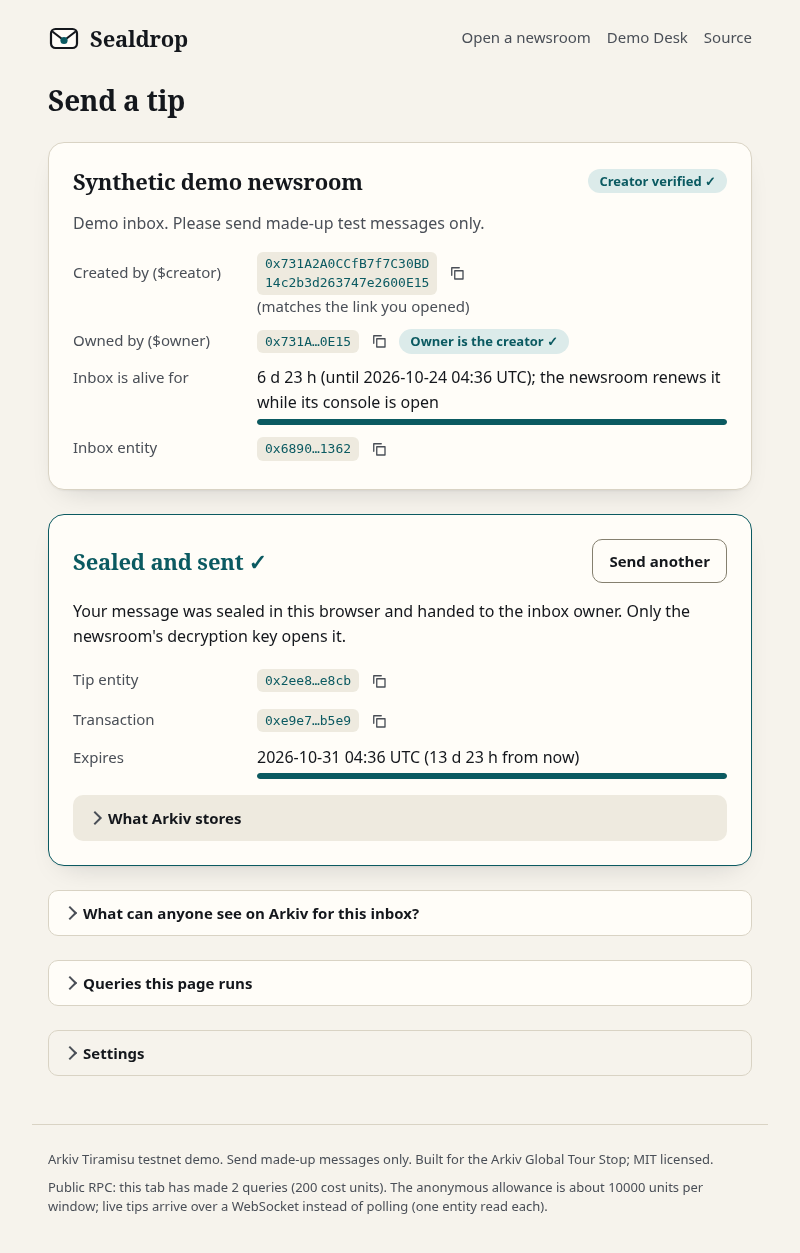
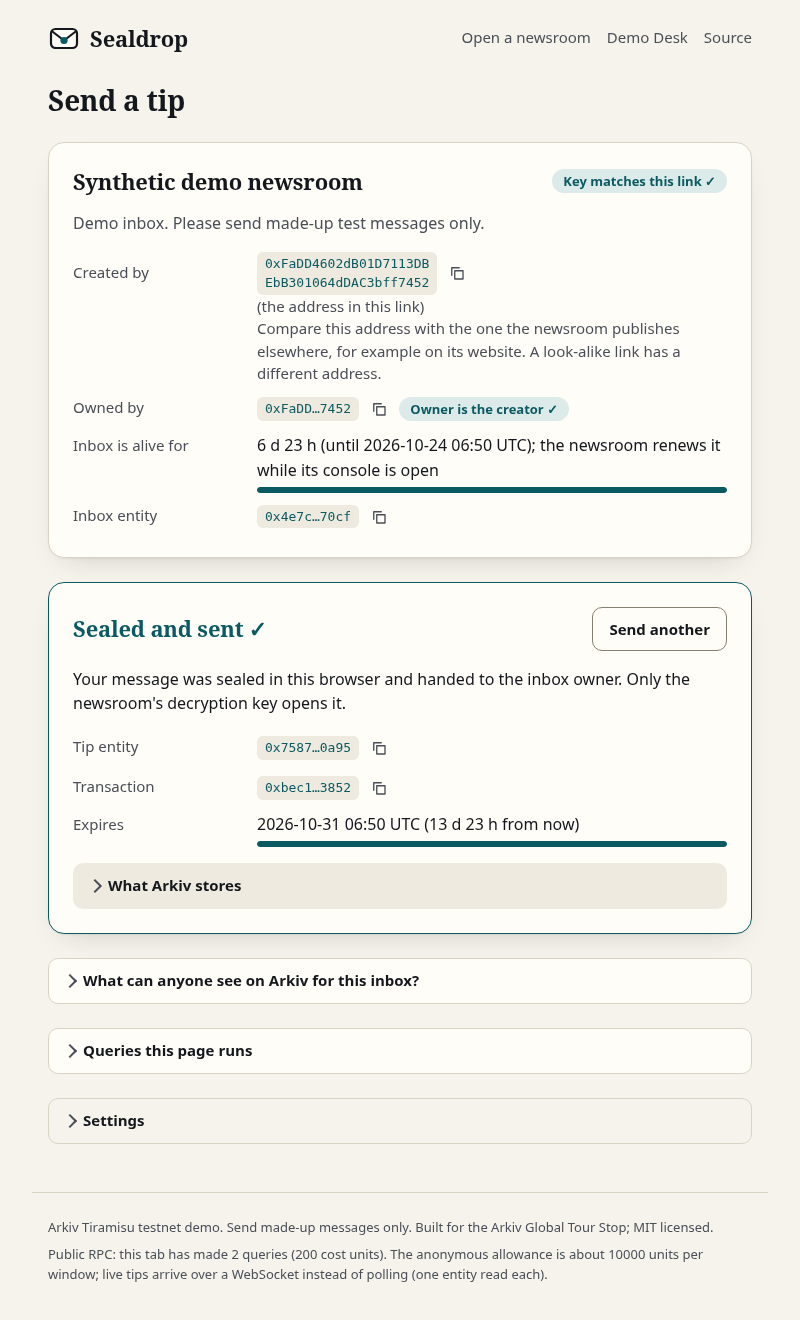
Evidence after fix stage 1: live smoke, C harness, refreshed numbers
- npm run smoke on the live testnet: 24 PASS, judge path 19.3 s.
- QA C harness rerun on this code: every class PASS (flood: 50 live tips
  shown in 6.9 s with 2000 rows).
- README and friction.md timings now match evidence/smoke.txt (QA B2-8).
- The subpath smoke was blocked by the spent public RPC budget (recorded).

diff --git a/arkiv/friction.md b/arkiv/friction.md
@@ -349,5 +349,5 @@ These were verified with the same rigour as the problems above, so they count as
 | Documented query limits | `!=` and `exists(...)` fail with a clear JSON-RPC error (-32002, "write NOT (attr = value)" / "the index has no per-attribute presence set in this version"), exactly as the Querying Data pages say the network behaves. |
 | Explorer deep links | `https://tiramisu.explorer.arkiv.network/tx/<hash>`, `/address/<addr>`, `https://data.arkiv.network/entity/<key>` and `/owner/<addr>` all render the object from the hash alone. |
 | WebSocket resilience | Tested on 2026-10-16 by dropping the socket of a newsroom console in headless Chromium 154, through a local proxy in front of the public node: the socket killed and new handshakes refused for 15 s; CDP `offline` for 15 s; the socket left open but silent. With viem 2.57.7's default `webSocket()` reconnect (5 attempts, 2 s apart) the 15 s outage outlasted the retries: the subscription ended with "The socket has been closed" (the page said "Live updates stopped"), and tips sent during and after the outage had not appeared 30 s later; the page does not poll, so only a reload or Refresh would show them. Events are not replayed after a reconnect, so a catch-up read is needed whatever the transport does; `watchEntityEvents` only has `onError`. Sealdrop therefore supervises the socket itself (reconnect off, backoff, a heartbeat, one `$createdAt` query after each reconnect) and passes all three scenarios ([evidence/qa.md](../evidence/qa.md)). Chromium's CDP `offline` did not close an already open socket, so that scenario is not a real drop. I did not test the old behavior for an outage shorter than viem's retry window (viem may reconnect by itself, but nothing replays the events of the gap), and the drops were injected by a local proxy, not a real Wi-Fi change, sleep or node restart. |
-| WebSocket push in a browser | `watchEntityEvents` over a WebSocket works from a page in headless Chromium 154: a tip sent from one browser context showed up in the newsroom tab 3.1 s after the Send click (the sender's own page confirmed after 5.6 s), and the app marks it as arrived by push ([`evidence/smoke.txt`](../evidence/smoke.txt)). Browser, Node and the standalone reader all talk to the same public node without a proxy. |
+| WebSocket push in a browser | `watchEntityEvents` over a WebSocket works from a page in headless Chromium 154: a tip sent from one browser context showed up in the newsroom tab 2.1 s after the Send click (the sender's own page confirmed after 5.6 s), and the app marks it as arrived by push ([`evidence/smoke.txt`](../evidence/smoke.txt)). Browser, Node and the standalone reader all talk to the same public node without a proxy. |
 | Injected wallet | The SDK's wallet client works with an EIP-1193 provider on `window.ethereum`. This was tested with a scripted stand-in (`scripts/wallet-shim.ts`, signs with a Node-held key), not a real browser extension: the tip was created with the provider's address as `$creator`. |

diff --git a/README.md b/README.md
@@ -51,8 +51,8 @@ of this repository or the build. Open the entity link on the Data Explorer to se
 three attributes.
 
 Measured on 2026-10-17 by a headless Chromium run against the built site and the live testnet ([evidence/smoke.txt](evidence/smoke.txt)):
-creating the newsroom takes under a second (no network), creating the inbox 15.5 s (two transactions and the first look-up),
-and the decrypted tip appeared in the newsroom tab 2.6 s after Send was clicked. The whole path took 20.2 s.
+creating the newsroom takes under a second (no network), creating the inbox 14.8 s (two transactions and the first look-up),
+and the decrypted tip appeared in the newsroom tab 2.1 s after Send was clicked. The whole path took 19.3 s.
 
 ## What is on Arkiv, and what is not
 
